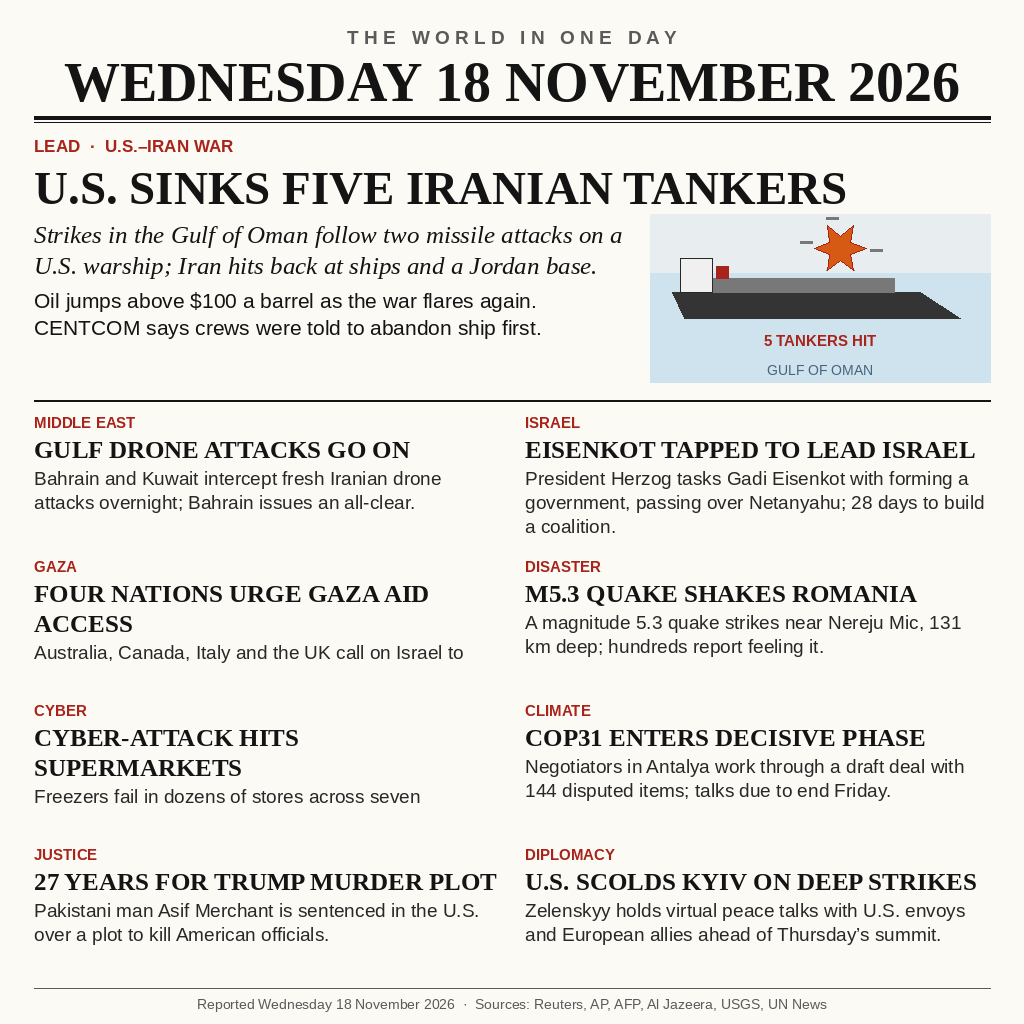
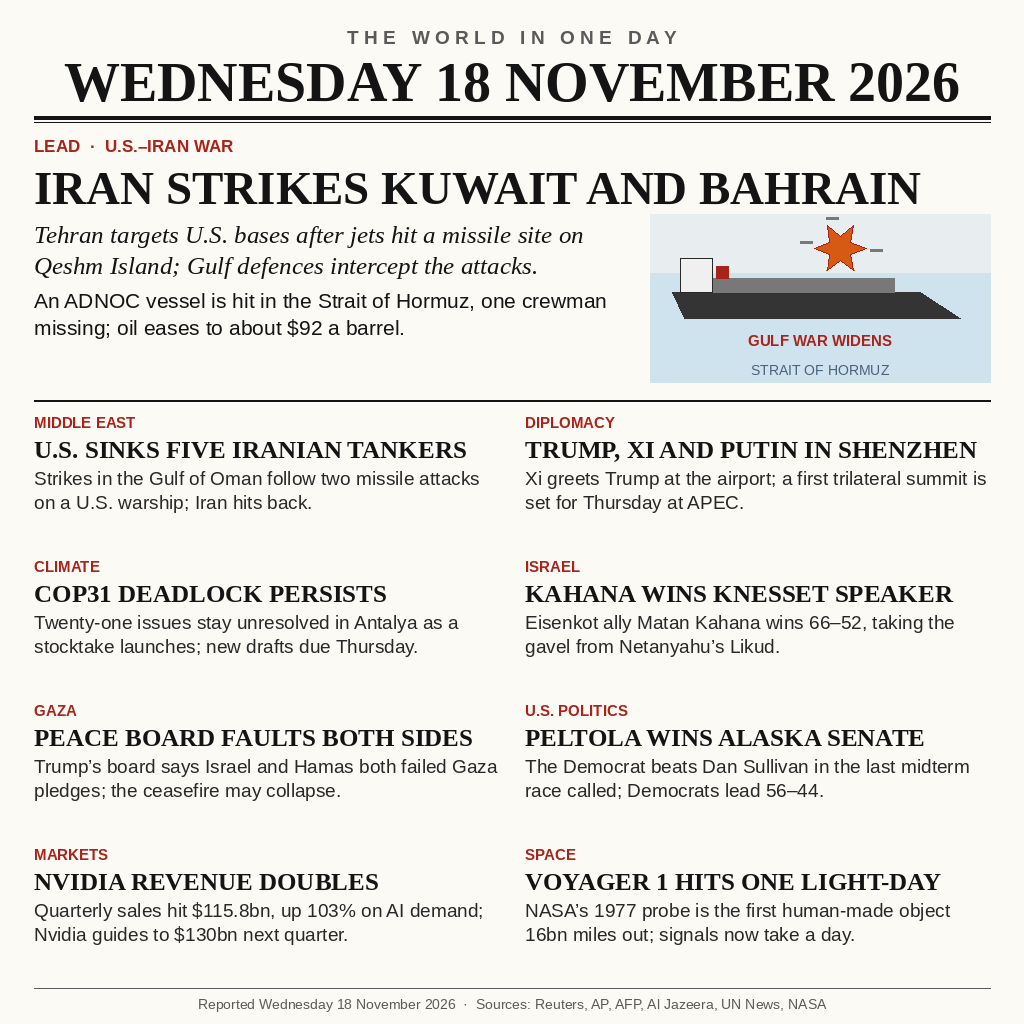
Make.fun news-image-20261118 v2: full day of 18 Nov 2026 world news
Lead: Iran strikes U.S. bases in Kuwait and Bahrain as the Gulf war
widens; plus U.S. sinking five Iranian tankers, Trump/Xi/Putin in
Shenzhen, COP31 deadlock, Kahana wins Knesset speaker, Board of Peace
faults both sides on Gaza, Peltola wins Alaska Senate, Nvidia revenue
doubles, Voyager 1 hits one light-day.

diff --git a/README.md b/README.md
@@ -4,7 +4,7 @@
 [![rank](https://make.fun/badge/news-image-20261118/pytraaa9-ai/news-image-20261118/rank.svg)](https://make.fun/bounty/news-image-20261118/leaderboard?utm_source=github&utm_medium=readme&utm_campaign=news-image-20261118)
 [![reward](https://make.fun/badge/news-image-20261118/pytraaa9-ai/news-image-20261118/reward.svg)](https://make.fun/bounty/news-image-20261118?utm_source=github&utm_medium=readme&utm_campaign=news-image-20261118)
 
-A program that writes one image summing up Wednesday 18 November 2026 world news — a newspaper front page (1024×1024 PNG): lead story U.S. destroys five Iranian oil tankers in the Gulf of Oman, plus Gulf drone attacks, Eisenkot tapped to lead Israel, and more.
+A program that writes one image summing up Wednesday 18 November 2026 world news — a newspaper front page (1024×1024 PNG): lead story Iran strikes U.S. bases in Kuwait and Bahrain as the Gulf war widens, plus the U.S. sinking five Iranian tankers, Trump, Xi and Putin gathering in Shenzhen, and more.
 
 ## Run it
 
@@ -14,27 +14,31 @@ mkdir -p out && MAKEFUN_OUTPUT_DIR=out python3 main.py
 
 ## The day's news
 
-- **Lead:** U.S. destroys five Iranian oil tankers in the Gulf of Oman
-  after the IRGC twice targeted a U.S. warship; Iran hits back at ships
-  and a Jordan base; oil jumps above $100 a barrel.
-- Fresh Iranian drone attacks on Bahrain and Kuwait overnight
-  (intercepted; Bahrain issues an all-clear)
-- President Herzog tasks Gadi Eisenkot with forming Israel's next
-  government, passing over Netanyahu
-- Four nations urge Israel to open Gaza aid crossings as flooding and
-  cold hit 1.7m displaced
-- M5.3 earthquake shakes Romania (near Nereju Mic, 131 km deep)
-- Cyber-attack disables supermarket freezers in seven European countries
-- COP31 climate talks enter their decisive phase (144 disputed items)
-- Asif Merchant sentenced to 27 years in the U.S. over a plot to kill
-  American officials
-- U.S. scolds Kyiv on deep strikes; Zelenskyy holds virtual peace talks
-  with U.S. envoys and European allies
+- **Lead:** Iran strikes U.S. bases in Kuwait and Bahrain after U.S. jets
+  hit a missile site on Qeshm Island; Gulf defences intercept the attacks;
+  an ADNOC vessel is hit in the Strait of Hormuz, one crewman missing;
+  oil eases to about $92 a barrel.
+- U.S. sinks five Iranian tankers in the Gulf of Oman after two missile
+  attacks on a U.S. warship; Iran hits back
+- Trump, Xi and Putin gather in Shenzhen; Xi greets Trump at the airport;
+  a first trilateral summit is set for Thursday at APEC
+- COP31 deadlock persists: 21 issues unresolved in Antalya as a stocktake
+  launches; new drafts due Thursday
+- Eisenkot ally Matan Kahana wins the Knesset speakership 66–52, taking
+  the gavel from Netanyahu's Likud
+- Trump's Board of Peace says Israel and Hamas both failed Gaza pledges;
+  the ceasefire may collapse
+- Mary Peltola wins the Alaska Senate seat, beating Dan Sullivan in the
+  last midterm race called; Democrats lead 56–44
+- Nvidia revenue doubles to $115.8bn, up 103% on AI demand; guides to
+  $130bn next quarter
+- Voyager 1 reaches one light-day from Earth, the first human-made object
+  16bn miles out; signals now take a day
 
 All stories were verified against at least two reputable sources
-(Al Jazeera, AP, Reuters, AFP, USGS, UN News) on 18 November 2026.
-Note: the day was still in progress when this entry was built (early
-UTC hours), so it covers the news reported up to that point.
+(Reuters, AP, AFP, Al Jazeera, UN News, NASA) on 18 November 2026.
+Note: this v2 entry covers the full day of 18 November 2026, including
+afternoon and evening developments the morning version missed.
 
 ## How it works
 
